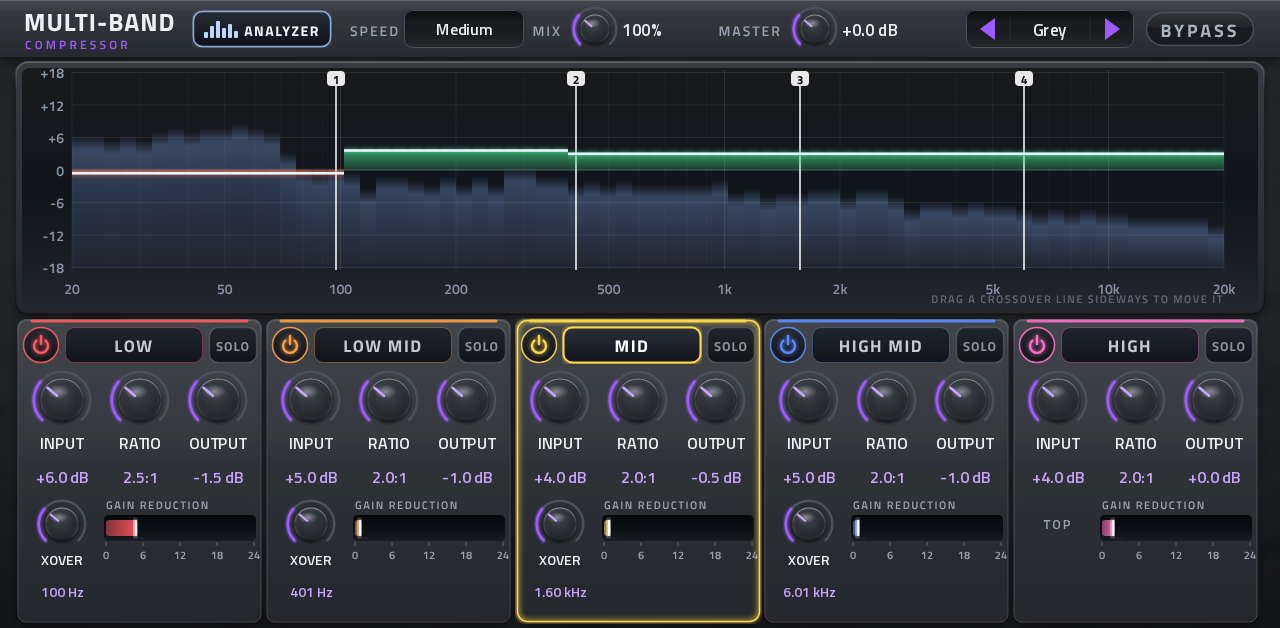
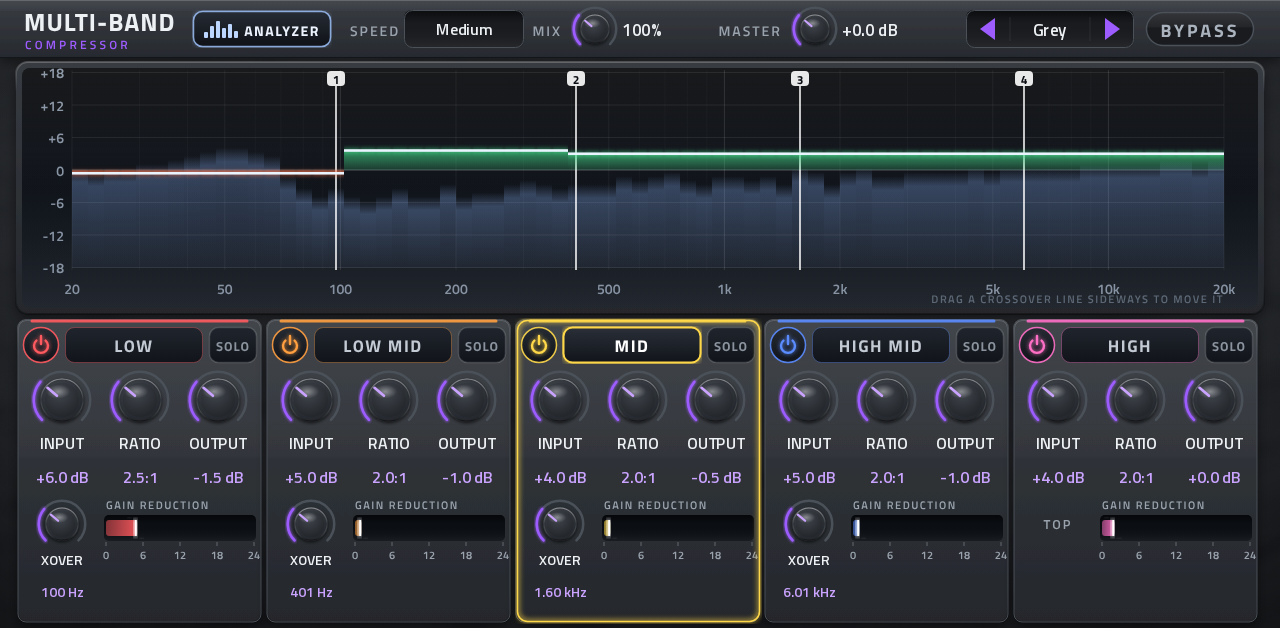
1.0.4: analyzer no longer pinned at the top in the bass
Seen on the MPC with a loud mix: the low end filled the chart. Two causes:
- Each column read its loudest single bin, on a flat scale: music has far more energy per hertz in the bass, and wide
  treble columns read high from the max of many bins. Now each column shows the energy in its own frequency range
  (fractional bins at the edges; narrow low columns: interpolated density x width), calibrated so a sine reads its
  level and pink noise reads level, plus a 1.5 dB/oct tilt around 1 kHz so a typical mix reads about level.
- The 1.0.3 screen budget gave rising columns double priority, so on a busy mix falling columns rarely got a turn and
  stayed up. Now the priority is how far off a column is times how long it has waited: every column gets its turn.

Tests: a loud mix-like spectrum sits mid-chart (bass 38%, highs 32%, within 4 dB), every column falls back to the floor
after the music stops, a 1 kHz tone still reads -12 dBFS at -12. Screen reports: 336 a second.

Claude-Session: https://claude.ai/code/session_01LjdQit2NuwMjb762jsbMht

Changed region(s): [[0.5625, 0.242, 0.9688, 0.3933], [0.0312, 0.2118, 0.4375, 0.3328], [0.5, 0.2723, 0.5312, 0.3328]]

diff --git a/src/engine.cpp b/src/engine.cpp
@@ -63,6 +63,10 @@ static const int FFT_N = 4096;                 /* 10.8 Hz bins: the low columns 
 static const int BAR_STEPS = 48;               /* analyzer frames: 0 = nothing .. 48 = 0 dBFS, 1.25 dB a step */
 static const float BAR_FLOOR = -60.0f;
 static const float BAR_FALL = 1.5f;            /* dB an analyzer column falls per picture (~15 dB a second) */
+static const float AN_TILT = 1.5f;             /* dB per octave, pivoting at 1 kHz. Each column shows the energy in its
+                                                * own frequency range (as a real-time analyzer does), so pink noise reads
+                                                * level; a typical mix falls ~1.5 dB/oct faster than pink, and this tilt
+                                                * levels it (the same look as FabFilter's 4.5 dB/oct on single bins) */
 static const int AN_BLOCKS = 34;               /* screen pictures (analyzer, meters, live curve) every 34 blocks (~99 ms) */
 /* The screen budget. Every value that moves costs MPC's screen thread a repaint (the toolchain measured a 48-column
  * display at 10 a second, one report per column, at more than a whole core on its screen thread), and a screen that
@@ -201,6 +205,7 @@ struct Comp {
     int an_pos = 0, an_wait = 0;
     float bar_db[NBAR];
     int bar[NBAR];
+    int bar_age[NBAR];                         /* pictures a column has waited to move (fair turns under the budget) */
     int bshown[NB], bwait[NB];                 /* each band's gain bar as shown (curve step, -1 = not yet), and how long
                                                 * a small change has waited */
 };
@@ -346,7 +351,7 @@ static void *create(const char *)
     }
     for (int b = 0; b < NB; ++b) { p->b[b].rpos = lrintf(ratio_pos(2.0f)); p->grm[b] = -1; }
     for (int c = 0; c < NCOL; ++c) { p->col[c] = -1; p->col_touched[c] = 0; }
-    for (int k = 0; k < NBAR; ++k) { p->bar_db[k] = BAR_FLOOR - 20; p->bar[k] = 0; }
+    for (int k = 0; k < NBAR; ++k) { p->bar_db[k] = BAR_FLOOR - 20; p->bar[k] = 0; p->bar_age[k] = 0; }
     for (int b = 0; b < NB; ++b) { p->bshown[b] = -1; p->bwait[b] = 0; }
     for (int i = 0; i < FFT_N; ++i) p->win[i] = 0.5f - 0.5f * cosf(2.0f * (float)M_PI * i / FFT_N);
     memset(p->an_buf, 0, sizeof p->an_buf);
@@ -623,9 +628,10 @@ static void fft(float *re, float *im, int n)
 }
 
 /* the analyzer: the last FFT_N samples -> NBAR log-spaced columns. A column narrower than two FFT bins reads the power
- * interpolated at its own centre frequency (so the low columns differ, instead of several sharing one bin); a wider one
- * its loudest bin (a tone reads at its level). Rises at once, falls BAR_FALL dB a picture. Then only the AN_BUDGET
- * columns furthest from their new height move (rises first), the rest catch up on the next pictures */
+ * interpolated at its own centre frequency (so the low columns differ, instead of several sharing one bin), a wider one
+ * the energy across its range: a tone reads at its level, pink noise reads level. Tilted by AN_TILT dB an octave around 1 kHz. Rises at once, falls
+ * BAR_FALL dB a picture. Then only AN_BUDGET columns move, by how far they are off times how long they have waited,
+ * so every column gets its turn (rising and falling alike) */
 static void update_analyzer(Comp *p)
 {
     float *re = p->fre, *im = p->fim;
@@ -635,33 +641,44 @@ static void update_analyzer(Comp *p)
     }
     fft(re, im, FFT_N);
     for (int i = 0; i <= FFT_N / 2; ++i) re[i] = re[i] * re[i] + im[i] * im[i];   /* power, in place */
-    const float binhz = SR / FFT_N, norm = 4.0f / FFT_N;
+    /* a sine of amplitude A puts 3 N^2 A^2 / 32 of power into the positive bins (Hann, Parseval): read it as A^2 */
+    const float binhz = SR / FFT_N, norm = 32.0f / (3.0f * (float)FFT_N * (float)FFT_N);
     int target[NBAR], prio[NBAR], order[NBAR], n = 0;
     for (int k = 0; k < NBAR; ++k) {
         float f0 = F_LO * powf(F_HI / F_LO, (float)k / NBAR), f1 = F_LO * powf(F_HI / F_LO, (float)(k + 1) / NBAR);
-        float pw;
-        if ((f1 - f0) / binhz < 2.0f) {
-            float x = sqrtf(f0 * f1) / binhz;
+        float x0 = f0 / binhz, x1 = f1 / binhz, pw = 0.0f;
+        if (x1 - x0 < 2.0f) {
+            /* narrower than two bins: the power per bin interpolated at the column's centre, times its width in bins */
+            float x = sqrtf(x0 * x1);
             int i0 = (int)x;
             float fr = x - i0;
-            pw = re[i0] + (re[i0 + 1] - re[i0]) * fr;
+            pw = (re[i0] + (re[i0 + 1] - re[i0]) * fr) * fmaxf(x1 - x0, 1.0f);
         } else {
-            int b0 = (int)(f0 / binhz), b1 = (int)(f1 / binhz);
-            pw = 0.0f;
-            for (int b = b0; b <= b1 && b <= FFT_N / 2; ++b) pw = fmaxf(pw, re[b]);
+            /* the energy in [f0, f1): whole bins inside, and the share of the two at its edges */
+            int b0 = (int)x0, b1 = (int)x1;
+            if (b1 > FFT_N / 2) b1 = FFT_N / 2;
+            for (int b = b0; b <= b1; ++b) {
+                float lo = fmaxf(x0, (float)b - 0.5f), hi = fminf(x1, (float)b + 0.5f);
+                if (hi > lo) pw += re[b] * (hi - lo);
+            }
         }
-        float db = 10.0f * log10f(pw * norm * norm + 1e-20f);
+        float db = 10.0f * log10f(pw * norm + 1e-20f) + AN_TILT * log2f(sqrtf(f0 * f1) / 1000.0f);
         p->bar_db[k] = db > p->bar_db[k] ? db : fmaxf(db, p->bar_db[k] - BAR_FALL);
         target[k] = (int)lrintf(clampf((p->bar_db[k] - BAR_FLOOR) / -BAR_FLOOR * BAR_STEPS, 0, BAR_STEPS));
         int d = target[k] - p->bar[k];
-        if (d) { prio[k] = d > 0 ? 2 * d : -d; order[n++] = k; }
+        if (d) { prio[k] = abs(d) * (1 + p->bar_age[k]); order[n++] = k; }   /* the longer it waited, the sooner */
+        else p->bar_age[k] = 0;
     }
     for (int i = 1; i < n; ++i) {                     /* biggest moves first (insertion sort: n <= 72) */
         int k = order[i], j = i - 1;
         while (j >= 0 && prio[order[j]] < prio[k]) { order[j + 1] = order[j]; --j; }
         order[j + 1] = k;
     }
-    for (int i = 0; i < n && i < AN_BUDGET; ++i) p->bar[order[i]] = target[order[i]];
+    for (int i = 0; i < n; ++i) {
+        int k = order[i];
+        if (i < AN_BUDGET) { p->bar[k] = target[k]; p->bar_age[k] = 0; }
+        else ++p->bar_age[k];
+    }
     if (n) ++p->display_rev;
 }
 

diff --git a/tests/test_comp.py b/tests/test_comp.py
@@ -263,6 +263,26 @@ check("crossover lines sit on their frequencies", all(abs(a - b) <= 1 for a, b i
 _, _, info = run(tone(1000, -12, 1.0), analyzer=1, **only())
 lvl = info["bars"][col(1000)] * 1.25 - 60
 check("analyzer: a 1 kHz tone at -12 dBFS reads about -12 dB at 1 kHz", abs(lvl + 12) <= 3.5, "%.1f dB" % lvl)
+# a loud, bass-heavy mix must not pin the low end to the top. Stand-in: noise with a typical mix's slope (-4.5 dB/oct
+# per hertz, 1.5 dB/oct steeper than pink) peaking near full scale; the analyzer's energy-per-column and 1.5 dB/oct
+# tilt should show it about level, mid-chart
+n = 6 * SR
+w = np.random.default_rng(11).normal(0, 1, n)
+k = np.maximum(np.arange(n // 2 + 1), 1)
+mix = np.real(np.fft.irfft(np.fft.rfft(w) * k ** -0.75, n))
+mix = 0.9 * mix / np.max(np.abs(mix))
+_, _, info = run(mix, analyzer=1, **only())
+b = info["bars"]
+lo = np.mean(b[col(30):col(150)]); hi = np.mean(b[col(2000):col(10000)])
+check("analyzer: a loud bass-heavy mix is not pinned at the top (bass under 85% of the chart)", lo < 0.85 * 48,
+      "bass %.0f%%, highs %.0f%% of the chart" % (100 * lo / 48, 100 * hi / 48))
+check("analyzer: a typical mix's spectrum reads about level (bass and highs within 6 dB)", abs(lo - hi) * 1.25 <= 6,
+      "%.1f dB apart" % (abs(lo - hi) * 1.25))
+pink = mix   # (the stop test below)
+# after the music stops every column falls back (the screen budget gives falling columns their turn too)
+_, _, info = run(np.concatenate([pink, np.zeros(5 * SR)]), analyzer=1, **only())
+check("analyzer: every column falls back to the floor after the music stops", max(info["bars"]) == 0,
+      "highest column %d of 48" % max(info["bars"]))
 
 # a touch on the graph moves the nearest crossover line there
 _, _, info = run(tone(1000, -40, 0.5), "@10:c%d=30" % col(2500))

diff --git a/README.md b/README.md
@@ -48,8 +48,9 @@ Download `Multi-Band-Compressor-<version>-mpc.zip` from [Releases](../../release
 - **MIX** blends with the same bands unprocessed, so parallel compression doesn't comb.
 - Every knob glides or fades (about 10-20 ms): no clicks from any control.
 - **Screen budget.** Every value that moves on screen costs MPC's screen thread a repaint, and a screen that falls behind
-  looks frozen. The analyzer (4096-point FFT, each column read at its own frequency, 1.25 dB steps) moves at most 24 of
-  its 72 columns a picture, the ones furthest behind; the gain bars move a band only on a real change. About 360
+  looks frozen. The analyzer (4096-point FFT; each column shows the energy in its own frequency range, as a real-time
+  analyzer does, with a 1.5 dB/oct tilt so a typical mix reads about level; 1.25 dB steps) moves at most 24 of its 72
+  columns a picture, by how far off they are and how long they have waited; the gain bars move a band only on a real change. About 360
   screen reports a second with everything busy (before 1.0.3: ~960); `tests/test_automation.c` checks it stays under 450.
 - Signal flow and details: the comment at the top of [src/engine.cpp](src/engine.cpp).
 
